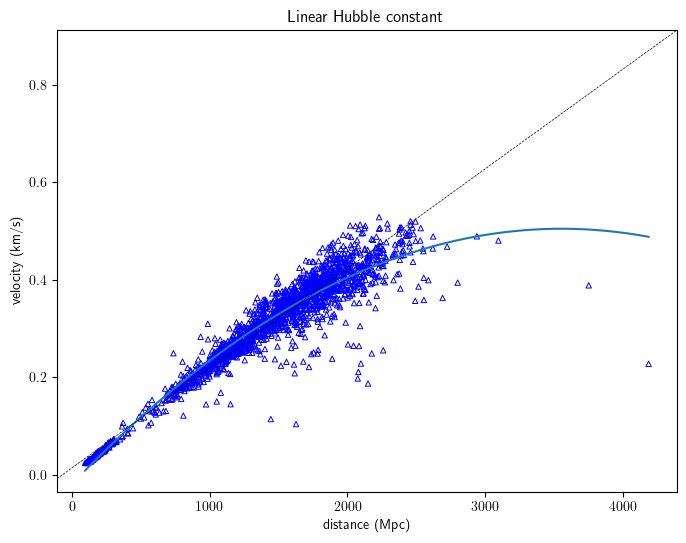
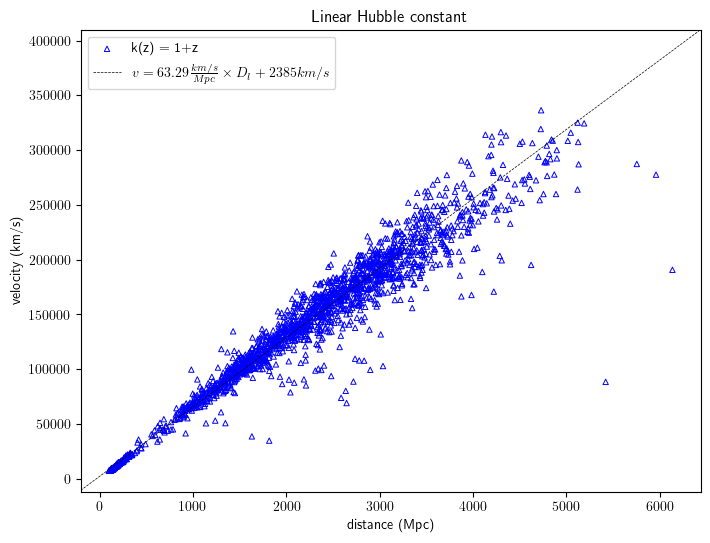
Figure out the Hubble constant calculations

diff --git a/src/redshift/supernova.py b/src/redshift/supernova.py
@@ -61,17 +61,6 @@ class Supernova:
         else:  # Tired light
             return self.magnitude - np.log(1 + self.z) / np.log(100**0.2)
 
-    def inflation_rate(self):
-        # A = P e^(rt)
-        # T = xA
-        # A/P = e^(rx A)
-        # ln(A/P) = rx A
-        # r = ln(A/P) / (Ax)
-        A = self.mu_distance(correction=Correction.ONE)
-        P = self.orig_distance(correction=Correction.ONE)
-        x = 3.26156
-        return math.log(A / P) / (x * A)
-
     @property
     def velocity_kms(self):
         c = 299792.458  # km/s
@@ -90,7 +79,7 @@ class Supernova:
         return d
 
     def orig_distance(self, correction=Correction.ONE):
-        return self.mu_distance(correction) / (self.z + 1)
+        return self.mu_distance(correction) / math.exp(self.z)
 
     def delta_distance(self, correction=Correction.ONE):
         return self.mu_distance(correction) - self.orig_distance(correction)
@@ -102,6 +91,18 @@ class Supernova:
         # E_loss = hcz / (l(1+z))
         # E_loss = hc/l * (z / (1+z))
         return self.z / (1 + self.z)
+
+    @property
+    def t(self):
+        return self.mu_distance(correction=Correction.ONE, use_mpc=False) * 3.26156
+
+    @property
+    def rate(self):
+        return self.z / self.t
+
+    @property
+    def hubble(self):
+        return self.rate * self.mu_distance(use_mpc=False) * 3.086e+13 / (365 * 24 * 60 * 60)
 
     @staticmethod
     def from_perlmutter():
@@ -163,8 +164,11 @@ class Supernova:
                     redshift=float(row[idx["zHD"]]),
                     x1=float(row[idx["x1"]]),
                     MU=float(row[idx["MU"]]),
-                    # absolute_magnitude=-19.102746,
-                    absolute_magnitude=-19.3232,
+                    # see perivolaropoulos2022 for the Camerena and Marra references
+                    #absolute_magnitude=-19.105, # ~70km/s / Mpc
+                    #absolute_magnitude=-19.2334, # Camarena and Marra 2020b
+                    absolute_magnitude=-19.3232, # Abbott
+                    #absolute_magnitude=-19.401, # Camarena and Marra 2020a
                     color=float(row[idx["c"]]),
                 )
                 data.append(sn)
@@ -345,32 +349,13 @@ def velocity_vs_distance_graph(data, correction=Correction.ONE, save=True):
     c = 299792.458  # km/s
     plt.rcParams["figure.figsize"] = (8, 6)
 
-    #xs = [sn.mu_distance(Correction.TWO) for sn in data]
-    #ys = [sn.energy_loss() / sn.inflation_rate() for sn in data]
-
-    xs = [sn.z for sn in data]
-    ys = [sn.mu_distance(Correction.ONE) for sn in data]
-    coefficients = scipy.stats.siegelslopes(x=xs, y=ys)
-    dist_per_z = coefficients.slope
+    mean_rate = np.mean([sn.rate for sn in data])
 
     xs = [sn.mu_distance() for sn in data]
-    ys = [sn.delta_distance() for sn in data]
+    ys = [sn.hubble for sn in data]
 
-    #xs = [sn.energy_loss() for sn in data]
-    #ys = [6.67146866 * sn.mu_distance(Correction.ONE) * sn.inflation_rate() for sn in data]
-
-    #xs = [sn.mu_distance(Correction.NONE) for sn in data]
-    #ys = [sn.inflation_rate() + 0.00004035447 * sn.energy_loss() for sn in data]
-
-    #xs = [sn.mu_distance(Correction.NONE) for sn in data]
-    #ys = [sn.energy_loss() / (6.428291819047782 * sn.mu_distance(Correction.ONE)) - sn.inflation_rate() for sn in data]
-
-    #xs = [sn.mu_distance(Correction.NONE) for sn in data]
-    #ys = [sn.inflation_rate() - 3.7806029237107605e-05 / (1 + sn.z) for sn in data]
-
-    #xs = [sn.mu_distance(Correction.NONE) for sn in data]
-    #ys = [sn.inflation_rate() - 3.7806029237107605e-05 / sn.mu_distance(Correction.ONE) for sn in data]
-
+    coefficients = scipy.stats.siegelslopes(x=xs, y=ys)
+    dist_per_z = coefficients.slope
 
     xmin = min(xs)
     xmax = max(xs)
@@ -383,27 +368,23 @@ def velocity_vs_distance_graph(data, correction=Correction.ONE, save=True):
         linewidths=0.7,
         facecolors="none",
         edgecolors="blue",
-        label="k(z) = 1",
+        label="k(z) = 1+z",
     )
 
-    p = np.polyfit(xs, ys, 2)
-    xfit = np.linspace(xmin, xmax, 1000)
-    yfit = np.polyval(p, xfit)
-    plt.plot(xfit, yfit)
-
     coefficients = scipy.stats.siegelslopes(x=xs, y=ys)
-    print(coefficients)
     plt.axline(
         (xmin, xmin * coefficients.slope + coefficients.intercept),
         (xmax, xmax * coefficients.slope + coefficients.intercept),
         color="black",
         linewidth=0.5,
         linestyle="--",
+        label=f"$v = {coefficients.slope:.2f} \\frac{{km/s}}{{Mpc}} \\times D_l + {coefficients.intercept:.0f} km/s$",
     )
 
     plt.title("Linear Hubble constant")
     plt.xlabel("distance (Mpc)")
     plt.ylabel("velocity (km/s)")
+    plt.legend()
 
     if save:
         plt.savefig(
@@ -588,14 +569,14 @@ if __name__ == "__main__":
 
     #data, m, b, sigma = my_model(data)
 
-    #generate_all_graphs(data)
+    generate_all_graphs(data)
 
     #all_mu_distance_vs_redshift_graph(data, save=False)
-    velocity_vs_distance_graph(data, correction=Correction.ONE, save=False)
+    #velocity_vs_distance_graph(data, correction=Correction.ONE, save=False)
     #energy_loss_vs_orig_distance(data, correction=Correction.ONE, save=False)
 
     #graph_model(data)
 
     #graph(data)
 
-    plt.show()
+    #plt.show()
